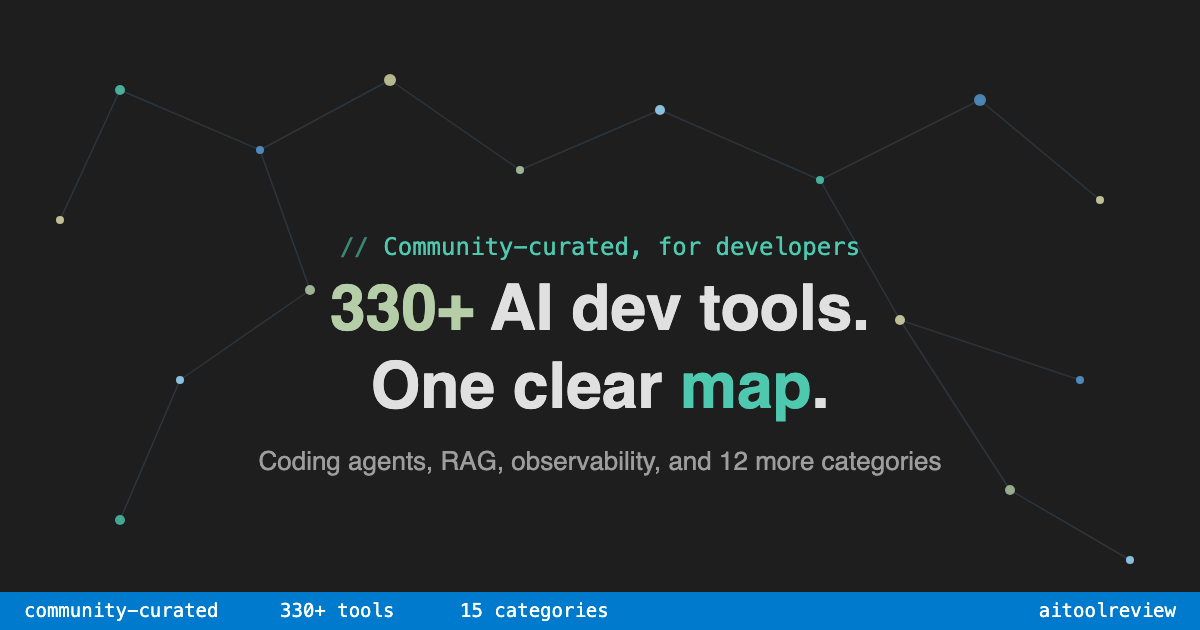
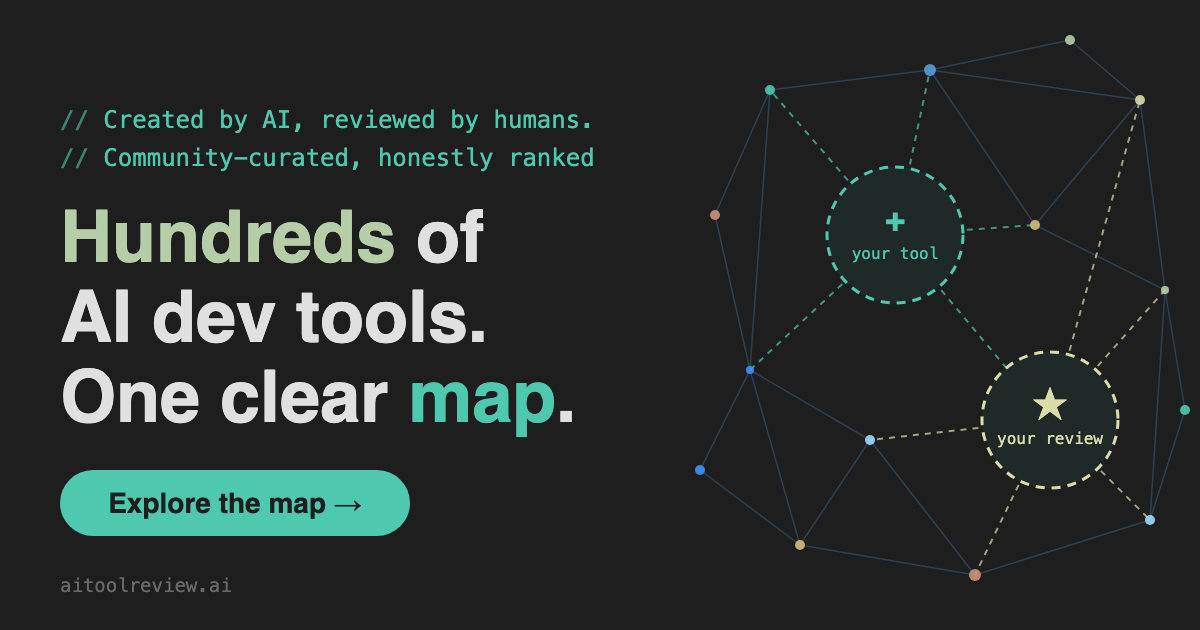
feat: live tool/category counts and new link-preview card
- Replace hardcoded "330+ tools / 15+ categories" in titles, meta and
  og:description with a build-time count (_includes/site-count.html),
  mirrored in build-spa-site.js
- Engaging og:title/og:description inviting reviews and tool submissions
- Absolute og:image/og:url (WhatsApp needs full URLs); add preview tags
  to landscape.html; cache-bust image with ?v=2
- New og-card: no counts (never stale), "+ your tool" / "your review"
  nodes, "Explore the map" CTA, site palette

diff --git a/index.html b/index.html
@@ -43,15 +43,16 @@ permalink: /
     </script>
 
     <!-- data-spa-head: swapped by the SPA router on navigation so meta stays accurate. -->
-    <meta name="description" content="Explore 330+ AI tools organized by category. Find foundation models, coding assistants, agents, and more. Your starting point for AI tool discovery." data-spa-head>
-    <meta property="og:title" content="AI Tool Review" data-spa-head>
-    <meta property="og:description" content="Find the right AI tool for the job. Explore 330+ tools across 15+ categories." data-spa-head>
+    <meta name="description" content="Explore {% include site-count.html what="tools" %} AI tools organized by category. Find foundation models, coding assistants, agents, and more. Your starting point for AI tool discovery." data-spa-head>
+    <meta property="og:title" content="AI Tool Review: AI tools, rated by the people who use them" data-spa-head>
+    <meta property="og:description" content="{% include site-count.html what="tools" %} AI tools, honestly ranked by the community. Used one? Leave a review. Know one we're missing? Add it." data-spa-head>
     <meta property="og:type" content="website" data-spa-head>
-    <meta property="og:image" content="/assets/og-card.png" data-spa-head>
+    <meta property="og:url" content="{{ site.url }}/" data-spa-head>
+    <meta property="og:image" content="{{ site.url }}/assets/og-card.png?v=2" data-spa-head>
     <meta property="og:image:width" content="1200" data-spa-head>
     <meta property="og:image:height" content="630" data-spa-head>
     <meta name="twitter:card" content="summary_large_image" data-spa-head>
-    <meta name="twitter:image" content="/assets/og-card.png" data-spa-head>
+    <meta name="twitter:image" content="{{ site.url }}/assets/og-card.png?v=2" data-spa-head>
     <meta name="theme-color" content="#1e1e1e">
     <link rel="stylesheet" href="css/style.css?t=1781400001">
     <link rel="stylesheet" href="css/tool.css">
@@ -103,7 +104,7 @@ permalink: /
                 <div class="autocomplete-dropdown hidden" id="autocomplete-dropdown"></div>
             </div>
             <a href="landscape.html" class="browse-toggle">Browse The AI Tools Landscape</a>
-            <p class="hero-stats"><span id="hero-tool-count">330+</span> tools across <span id="hero-cat-count">15+</span> categories</p>
+            <p class="hero-stats"><span id="hero-tool-count">{% include site-count.html what="tools" %}</span> tools across <span id="hero-cat-count">{% include site-count.html what="categories" %}</span> categories</p>
         </div>
     </section>
 

diff --git a/landscape.html b/landscape.html
@@ -8,7 +8,7 @@ permalink: /landscape.html
     <link rel="icon" type="image/svg+xml" href="/favicon.svg">
     <link rel="icon" type="image/x-icon" href="/favicon.svg">
     <meta name="viewport" content="width=device-width, initial-scale=1.0">
-    <title>AI Tools Landscape - Browse 330+ AI Tools by Category</title>
+    <title>AI Tools Landscape - Browse {% include site-count.html what="tools" %} AI Tools by Category</title>
     <!-- Google Consent Mode - Set defaults BEFORE loading any Google scripts -->
     <script>
         window.dataLayer = window.dataLayer || [];
@@ -43,10 +43,16 @@ permalink: /landscape.html
     </script>
 
     <!-- data-spa-head: swapped by the SPA router on navigation so meta stays accurate. -->
-    <meta name="description" content="Browse the complete AI tools landscape. Explore 330+ tools organized by category - foundation models, coding assistants, agents, and more." data-spa-head>
-    <meta property="og:title" content="AI Tools Landscape" data-spa-head>
-    <meta property="og:description" content="Browse 330+ AI tools across 15+ categories. The complete landscape view." data-spa-head>
+    <meta name="description" content="Browse the complete AI tools landscape. Explore {% include site-count.html what="tools" %} tools organized by category - foundation models, coding assistants, agents, and more." data-spa-head>
+    <meta property="og:title" content="AI Tools Landscape: {% include site-count.html what="tools" %} tools on one map" data-spa-head>
+    <meta property="og:description" content="Every AI tool category, side by side. Find yours, then tell others what it's really like. Missing one? Add it." data-spa-head>
     <meta property="og:type" content="website" data-spa-head>
+    <meta property="og:url" content="{{ site.url }}/landscape.html" data-spa-head>
+    <meta property="og:image" content="{{ site.url }}/assets/og-card.png?v=2" data-spa-head>
+    <meta property="og:image:width" content="1200" data-spa-head>
+    <meta property="og:image:height" content="630" data-spa-head>
+    <meta name="twitter:card" content="summary_large_image" data-spa-head>
+    <meta name="twitter:image" content="{{ site.url }}/assets/og-card.png?v=2" data-spa-head>
     <meta name="theme-color" content="#1e1e1e">
     <link rel="stylesheet" href="css/style.css?t=1780517697">
     <link rel="stylesheet" href="css/tool.css">

diff --git a/build-spa-site.js b/build-spa-site.js
@@ -41,10 +41,25 @@ function renderLearnArticles() {
   }).join('\n');
 }
 
+// Mirrors _includes/site-count.html: tools rounded down to tens, distinct categories
+function siteCounts() {
+  const files = fs.readdirSync('data/_tools', { recursive: true }).filter(f => f.endsWith('.md'));
+  const cats = new Set();
+  for (const f of files) {
+    const m = fs.readFileSync(path.join('data/_tools', f), 'utf-8').match(/^category:\s*"?([\w-]+)"?/m);
+    if (m) cats.add(m[1]);
+  }
+  return { tools: `${Math.floor(files.length / 10) * 10}+`, categories: `${cats.size}+` };
+}
+const counts = siteCounts();
+
 // Function to replace includes
 function processTemplate(content, active = '') {
   // Strip Jekyll front matter (--- ... ---)
   content = content.replace(/^---[\s\S]*?---\n/, '');
+
+  // Expand tool/category count includes before generic tag stripping removes them
+  content = content.replace(/\{%\s*include\s+site-count\.html\s+what="(\w+)"\s*%\}/g, (m, what) => counts[what] || '');
 
   // Process nav includes
   content = content.replace(/\{%\s*include\s+nav\.html(?:\s+active\s*=\s*"([^"]+)")?\s*%\}/g, (match, activeParam) => {

diff --git a/_includes/site-count.html b/_includes/site-count.html
@@ -1,0 +1,13 @@
+{%- comment -%}
+  Build-time count for static copy (titles, meta descriptions, pre-JS hero).
+  Usage: {% include site-count.html what="tools" %}       -> e.g. "480+" (rounded down to tens)
+         {% include site-count.html what="categories" %}  -> e.g. "21+"
+  The hero spans are refined to the exact live count by updateHeroCounts() in js/app.js.
+  build-spa-site.js mirrors this logic; keep the two in sync.
+{%- endcomment -%}
+{%- if include.what == "categories" -%}
+{%- assign n = site.tools | map: "category" | compact | uniq | size -%}
+{%- else -%}
+{%- assign n = site.tools | size | divided_by: 10 | times: 10 -%}
+{%- endif -%}
+{{ n }}+
